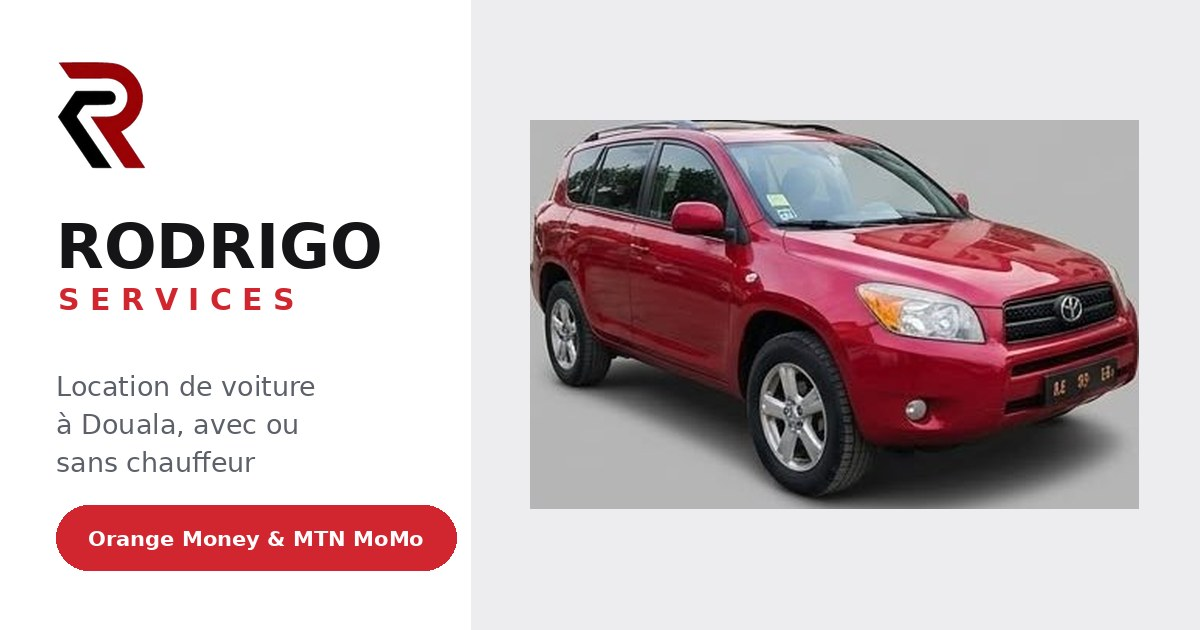
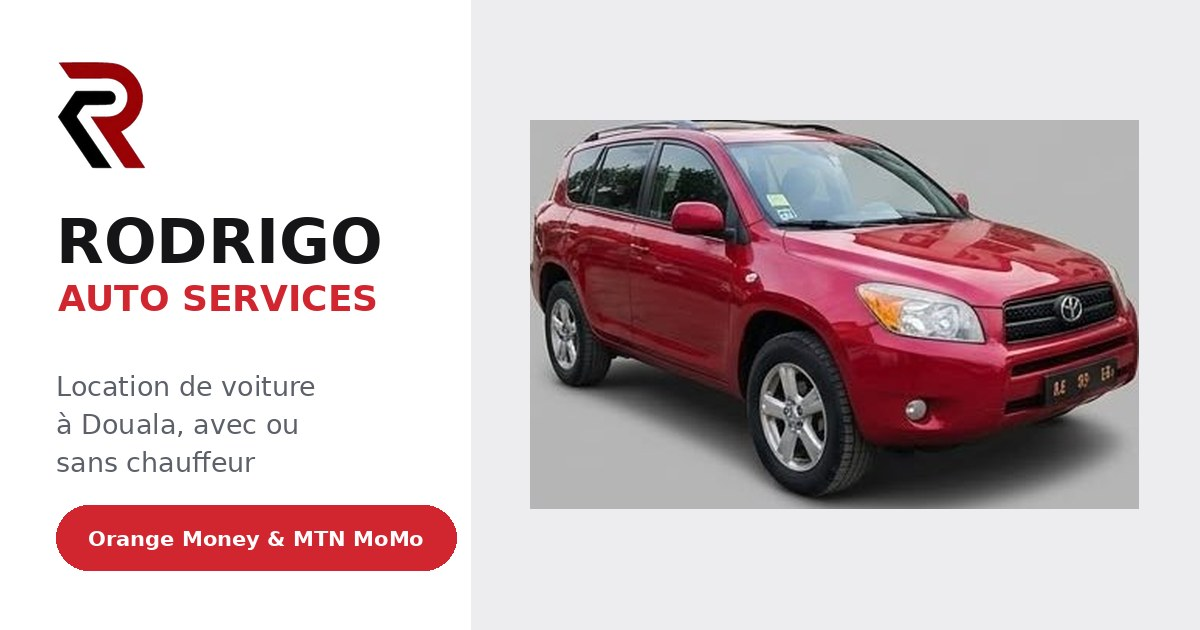
marque: renomme l'entreprise en Rodrigo Auto Services
Le nom passe de « Rodrigo Services » à « Rodrigo Auto Services » partout :
en-tête, pied de page, titres et descriptions des pages, articles,
manifeste et données structurées. Les textes des composants lisent
maintenant site.name au lieu de répéter le nom, et l'image de partage
comme le logo horizontal sont régénérés.

Changed region(s): [[0.0617, 0.3317, 0.3083, 0.4222], [0.0308, 0.4524, 0.3083, 0.5127]]

diff --git a/lib/site.ts b/lib/site.ts
@@ -1,15 +1,15 @@
 /**
- * Configuration centrale de Rodrigo Services.
+ * Configuration centrale de Rodrigo Auto Services.
  * ⚠ MODIFIE UNIQUEMENT LES VALEURS CI-DESSOUS pour mettre à jour tout le site
  * (numéros de téléphone, WhatsApp, Orange Money / MTN MoMo, adresse, etc.).
  */
 
 export const site = {
-  name: 'Rodrigo Services',
-  legalName: 'Rodrigo Services – Location de voiture',
+  name: 'Rodrigo Auto Services',
+  legalName: 'Rodrigo Auto Services – Location de voiture',
   tagline: 'Location de voiture à Douala, avec ou sans chauffeur',
   description:
-    "Rodrigo Services loue des voitures fiables et abordables à Douala : Toyota Avensis en boîte manuelle ou automatique et SUV Toyota RAV4. Avec ou sans chauffeur, transfert aéroport, paiement Orange Money & MTN MoMo.",
+    "Rodrigo Auto Services loue des voitures fiables et abordables à Douala : Toyota Avensis en boîte manuelle ou automatique et SUV Toyota RAV4. Avec ou sans chauffeur, transfert aéroport, paiement Orange Money & MTN MoMo.",
 
   // URL du site en production (à mettre à jour quand tu auras ton domaine)
   url: 'https://www.rodrigoservices.cm',
@@ -29,7 +29,7 @@ export const site = {
   country: 'Cameroun',
   // Coordonnées approximatives de Bonamoussadi (Douala) — pour le SEO local
   geo: { lat: 4.0921, lng: 9.7454 },
-  mapsQuery: 'Rodrigo Services Terminus Bonamoussadi Douala',
+  mapsQuery: 'Rodrigo Auto Services Terminus Bonamoussadi Douala',
 
   // --- Paiement Mobile Money ---
   // `holder` = nom exact du bénéficiaire affiché par l'opérateur avant validation ;
@@ -40,7 +40,7 @@ export const site = {
     momo: {
       label: 'MTN Mobile Money',
       number: '+237 676 71 21 91',
-      holder: 'Rodrigo Services',
+      holder: 'Rodrigo Auto Services',
       ussd: '*126#'
     },
     orange: {

diff --git a/app/layout.tsx b/app/layout.tsx
@@ -6,8 +6,8 @@ import { vehicles, vehicleLabel } from '@/lib/vehicles';
 export const metadata: Metadata = {
   metadataBase: new URL(site.url),
   title: {
-    default: 'Rodrigo Services — Location de voiture à Douala (avec ou sans chauffeur)',
-    template: '%s | Rodrigo Services Douala'
+    default: `${site.name} — Location de voiture à Douala (avec ou sans chauffeur)`,
+    template: `%s | ${site.name} Douala`
   },
   description: site.description,
   keywords: [
@@ -17,26 +17,28 @@ export const metadata: Metadata = {
     'location avec chauffeur Douala',
     'transfert aéroport Douala',
     'agence location voiture Bonamoussadi',
-    'Rodrigo Services',
+    site.name,
     'Toyota Avensis location',
     'Toyota RAV4 location',
     'paiement Orange Money MTN MoMo'
   ],
-  applicationName: 'Rodrigo Services',
-  authors: [{ name: 'Rodrigo Services' }],
+  applicationName: site.name,
+  authors: [{ name: site.name }],
   alternates: { canonical: '/' },
   openGraph: {
     type: 'website',
     locale: 'fr_CM',
     url: site.url,
-    siteName: 'Rodrigo Services',
-    title: 'Rodrigo Services — Location de voiture à Douala',
+    siteName: site.name,
+    title: `${site.name} — Location de voiture à Douala`,
     description: site.description,
-    images: [{ url: '/og.jpg', width: 1200, height: 630, alt: 'Rodrigo Services — Location de voiture à Douala' }]
+    images: [
+      { url: '/og.jpg', width: 1200, height: 630, alt: `${site.name} — Location de voiture à Douala` }
+    ]
   },
   twitter: {
     card: 'summary_large_image',
-    title: 'Rodrigo Services — Location de voiture à Douala',
+    title: `${site.name} — Location de voiture à Douala`,
     description: site.description,
     images: ['/og.jpg']
   },

diff --git a/components/WhatsAppButton.tsx b/components/WhatsAppButton.tsx
@@ -7,7 +7,7 @@ export default function WhatsAppButton() {
       target="_blank"
       rel="noreferrer"
       className="fixed bottom-5 right-5 z-50 inline-flex items-center gap-2 rounded-full bg-[#25D366] px-4 py-3.5 font-semibold text-white shadow-[0_12px_30px_-6px_rgba(37,211,102,0.6)] transition-transform hover:-translate-y-0.5"
-      aria-label="Contacter Rodrigo Services sur WhatsApp"
+      aria-label={`Contacter ${site.name} sur WhatsApp`}
     >
       <svg viewBox="0 0 24 24" className="h-6 w-6 fill-current" aria-hidden="true">
         <path d="M17.472 14.382c-.297-.149-1.758-.867-2.03-.967-.273-.099-.471-.148-.67.15-.197.297-.767.966-.94 1.164-.173.199-.347.223-.644.075-.297-.15-1.255-.463-2.39-1.475-.883-.788-1.48-1.761-1.653-2.059-.173-.297-.018-.458.13-.606.134-.133.298-.347.446-.52.149-.174.198-.298.298-.497.099-.198.05-.371-.025-.52-.075-.149-.669-1.612-.916-2.207-.242-.579-.487-.5-.669-.51l-.57-.01c-.198 0-.52.074-.792.372-.272.297-1.04 1.016-1.04 2.479 0 1.462 1.065 2.875 1.213 3.074.149.198 2.096 3.2 5.077 4.487.71.306 1.263.489 1.694.625.712.227 1.36.195 1.871.118.571-.085 1.758-.719 2.006-1.413.248-.694.248-1.29.173-1.414-.074-.124-.272-.198-.57-.347m-5.421 7.403h-.004a9.87 9.87 0 01-5.031-1.378l-.361-.214-3.741.982.998-3.648-.235-.374a9.86 9.86 0 01-1.51-5.26c.001-5.45 4.436-9.884 9.888-9.884 2.64 0 5.122 1.03 6.988 2.898a9.825 9.825 0 012.893 6.994c-.003 5.45-4.437 9.884-9.885 9.884m8.413-18.297A11.815 11.815 0 0012.05 0C5.495 0 .16 5.335.157 11.892c0 2.096.547 4.142 1.588 5.945L.057 24l6.305-1.654a11.882 11.882 0 005.683 1.448h.005c6.554 0 11.89-5.335 11.893-11.893a11.821 11.821 0 00-3.48-8.413z" />

diff --git a/app/about/page.tsx b/app/about/page.tsx
@@ -8,9 +8,9 @@ import MapEmbed from '@/components/MapEmbed';
 import { site } from '@/lib/site';
 
 export const metadata: Metadata = {
-  title: 'À propos de Rodrigo Services',
+  title: 'À propos de Rodrigo Auto Services',
   description:
-    'Rodrigo Services est une petite entreprise de location de voiture basée à Bonamoussadi, Douala. Des voitures fiables, des prix clairs et un service de proximité.',
+    'Rodrigo Auto Services est une petite entreprise de location de voiture basée à Bonamoussadi, Douala. Des voitures fiables, des prix clairs et un service de proximité.',
   alternates: { canonical: '/about' }
 };
 
@@ -34,7 +34,7 @@ export default function AboutPage() {
           <div className="grid gap-10 lg:grid-cols-2 lg:items-start">
             <div className="space-y-4 text-brand-gray">
               <p>
-                Rodrigo Services est une petite entreprise camerounaise de location de voiture, basée à
+                Rodrigo Auto Services est une petite entreprise camerounaise de location de voiture, basée à
                 <strong className="text-brand-ink"> {site.address}, {site.city}</strong>. Notre objectif est
                 simple : vous proposer des voitures fiables à des prix clairs, sans complications.
               </p>

diff --git a/components/Footer.tsx b/components/Footer.tsx
@@ -18,7 +18,7 @@ export default function Footer() {
         <div className="space-y-4">
           <div className="flex items-center gap-2.5">
             <LogoMark className="h-9 w-9" />
-            <span className="font-display text-lg font-extrabold text-brand-ink">Rodrigo Services</span>
+            <span className="font-display text-lg font-extrabold text-brand-ink">{site.name}</span>
           </div>
           <p className="max-w-sm text-sm leading-relaxed text-brand-gray">
             Location de voiture à Douala, avec ou sans chauffeur. Des véhicules fiables et
@@ -69,7 +69,7 @@ export default function Footer() {
 
       <div className="border-t border-brand-line">
         <div className="container flex flex-col items-center justify-between gap-2 py-5 text-xs text-brand-gray sm:flex-row">
-          <p>© {new Date().getFullYear()} Rodrigo Services — Location de voiture à Douala.</p>
+          <p>© {new Date().getFullYear()} {site.name} — Location de voiture à Douala.</p>
           <p>Paiement Orange Money & MTN Mobile Money.</p>
         </div>
       </div>

diff --git a/lib/articles.ts b/lib/articles.ts
@@ -33,10 +33,8 @@ export const articles: Article[] = [
     slug: 'louer-une-voiture-a-douala',
     title: 'Louer une voiture à Douala : comment ça marche',
     shortTitle: 'Louer une voiture à Douala',
-    description:
-      'Papiers à prévoir, acompte, remise du véhicule, carburant, restitution : le déroulé complet d’une location de voiture à Douala chez Rodrigo Services.',
-    excerpt:
-      'Papiers à prévoir, caution, prise en charge du véhicule et restitution : le déroulé complet d’une location chez Rodrigo Services.',
+    description: `Papiers à prévoir, acompte, remise du véhicule, carburant, restitution : le déroulé complet d’une location de voiture à Douala chez ${site.name}.`,
+    excerpt: `Papiers à prévoir, caution, prise en charge du véhicule et restitution : le déroulé complet d’une location chez ${site.name}.`,
     date: '2026-07-09',
     readingMinutes: 5,
     body: [

diff --git a/app/page.tsx b/app/page.tsx
@@ -65,7 +65,7 @@ export default function Home() {
               <div className="relative aspect-[4/3] overflow-hidden rounded-2xl border border-brand-line bg-[#EDEDF0] shadow-card">
                 <Image
                   src={heroVehicle.gallery[0]}
-                  alt={`${vehicleLabel(heroVehicle)} en location chez Rodrigo Services à Douala`}
+                  alt={`${vehicleLabel(heroVehicle)} en location chez Rodrigo Auto Services à Douala`}
                   fill
                   priority
                   className="object-contain transition-transform duration-700 hover:scale-105"

diff --git a/app/reservation/page.tsx b/app/reservation/page.tsx
@@ -8,7 +8,7 @@ import { site } from '@/lib/site';
 export const metadata: Metadata = {
   title: 'Réserver une voiture à Douala',
   description:
-    'Réservez en ligne votre voiture à Douala avec Rodrigo Services : choisissez le véhicule, les dates, avec ou sans chauffeur. Confirmation par WhatsApp, acompte par Orange Money ou MTN MoMo.',
+    'Réservez en ligne votre voiture à Douala avec Rodrigo Auto Services : choisissez le véhicule, les dates, avec ou sans chauffeur. Confirmation par WhatsApp, acompte par Orange Money ou MTN MoMo.',
   alternates: { canonical: '/reservation' }
 };
 

diff --git a/app/contact/page.tsx b/app/contact/page.tsx
@@ -7,9 +7,9 @@ import MapEmbed from '@/components/MapEmbed';
 import Reveal from '@/components/Reveal';
 
 export const metadata: Metadata = {
-  title: 'Contact — Rodrigo Services Douala',
+  title: 'Contact — Rodrigo Auto Services Douala',
   description:
-    'Contactez Rodrigo Services à Bonamoussadi, Douala pour louer une voiture : téléphone, WhatsApp et email. Réponse rapide.',
+    'Contactez Rodrigo Auto Services à Bonamoussadi, Douala pour louer une voiture : téléphone, WhatsApp et email. Réponse rapide.',
   alternates: { canonical: '/contact' }
 };
 

diff --git a/app/tarifs/page.tsx b/app/tarifs/page.tsx
@@ -11,7 +11,7 @@ import Reveal from '@/components/Reveal';
 export const metadata: Metadata = {
   title: 'Tarifs de location de voiture à Douala',
   description:
-    'Tarifs clairs en FCFA pour la location de voiture à Douala chez Rodrigo Services : Toyota Avensis et Toyota RAV4. Option chauffeur, acompte par Orange Money et MTN MoMo.',
+    'Tarifs clairs en FCFA pour la location de voiture à Douala chez Rodrigo Auto Services : Toyota Avensis et Toyota RAV4. Option chauffeur, acompte par Orange Money et MTN MoMo.',
   alternates: { canonical: '/tarifs' }
 };
 

diff --git a/app/vehicles/page.tsx b/app/vehicles/page.tsx
@@ -9,7 +9,7 @@ import { vehicles } from '@/lib/vehicles';
 export const metadata: Metadata = {
   title: 'Nos voitures à louer à Douala',
   description:
-    'Découvrez les voitures de Rodrigo Services à Douala : Toyota Avensis berline en boîte manuelle ou automatique et SUV Toyota RAV4. Tarifs en FCFA, avec ou sans chauffeur.',
+    'Découvrez les voitures de Rodrigo Auto Services à Douala : Toyota Avensis berline en boîte manuelle ou automatique et SUV Toyota RAV4. Tarifs en FCFA, avec ou sans chauffeur.',
   alternates: { canonical: '/vehicles' }
 };
 

diff --git a/app/manifest.ts b/app/manifest.ts
@@ -1,9 +1,10 @@
 import { MetadataRoute } from 'next';
+import { site } from '@/lib/site';
 
 export default function manifest(): MetadataRoute.Manifest {
   return {
-    name: 'Rodrigo Services — Location de voiture à Douala',
-    short_name: 'Rodrigo Services',
+    name: `${site.name} — Location de voiture à Douala`,
+    short_name: site.name,
     description: 'Location de voiture à Douala, avec ou sans chauffeur. Paiement Orange Money & MTN MoMo.',
     start_url: '/',
     display: 'standalone',
